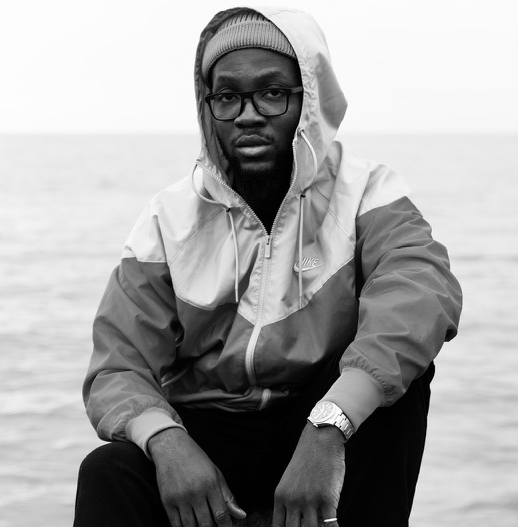
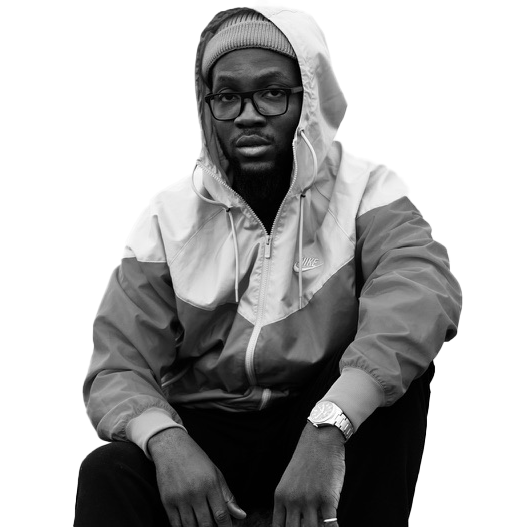
Updating Info

diff --git a/index.html b/index.html
@@ -18,7 +18,7 @@
         <div class="profile clearfix">
             <div class="picture">
                 <!-- img should be portrait and image size minimum 325x305-->
-                <img src="assets/img/mypicture.png" alt="Malik Adebiyi">
+                <img src="assets/img/mypicture.jpg" alt="Malik Adebiyi">
                 <!-- <div class="student_id">
         101276708
       </div> -->
@@ -27,10 +27,10 @@
                 <div class="profile-info">
                     <div class="profile-preword move-right-back"><span>Hello</span></div>
                     <h1 class="profile-title">
-                        <span>I'm</span> Malik Adebiyi
+                        <span>I'm</span> Malik 
                     </h1>
                     <h2 class="profile-position">
-                        DevOps Engineer
+                        Human 
                     </h2>
                 </div>
                 <ul class="profile-list">
@@ -50,9 +50,8 @@
                     <li>
                         <strong class="title">About Me</strong>
                         <span class="cont" id="title">
-              DevOps Engineer, proficient in optimizing development processes, ensuring scalability, and streamlining deployments. 
-              Strong background in software development, with expertise in web and mobile apps. 
-              Seeking a dynamic team to collaborate on cutting-edge cloud solutions. 
+                            Proficient in software and mobile app (iOS) development, as well as cloud architecture. Skilled in AWS services, including cloud computing, serverless architecture, networking, and security, with a focus on DevOps practices. 
+                            Experienced in automation, infrastructure management, and CI/CD implementation for versatile solutions.
             </span>
                     </li>
 
